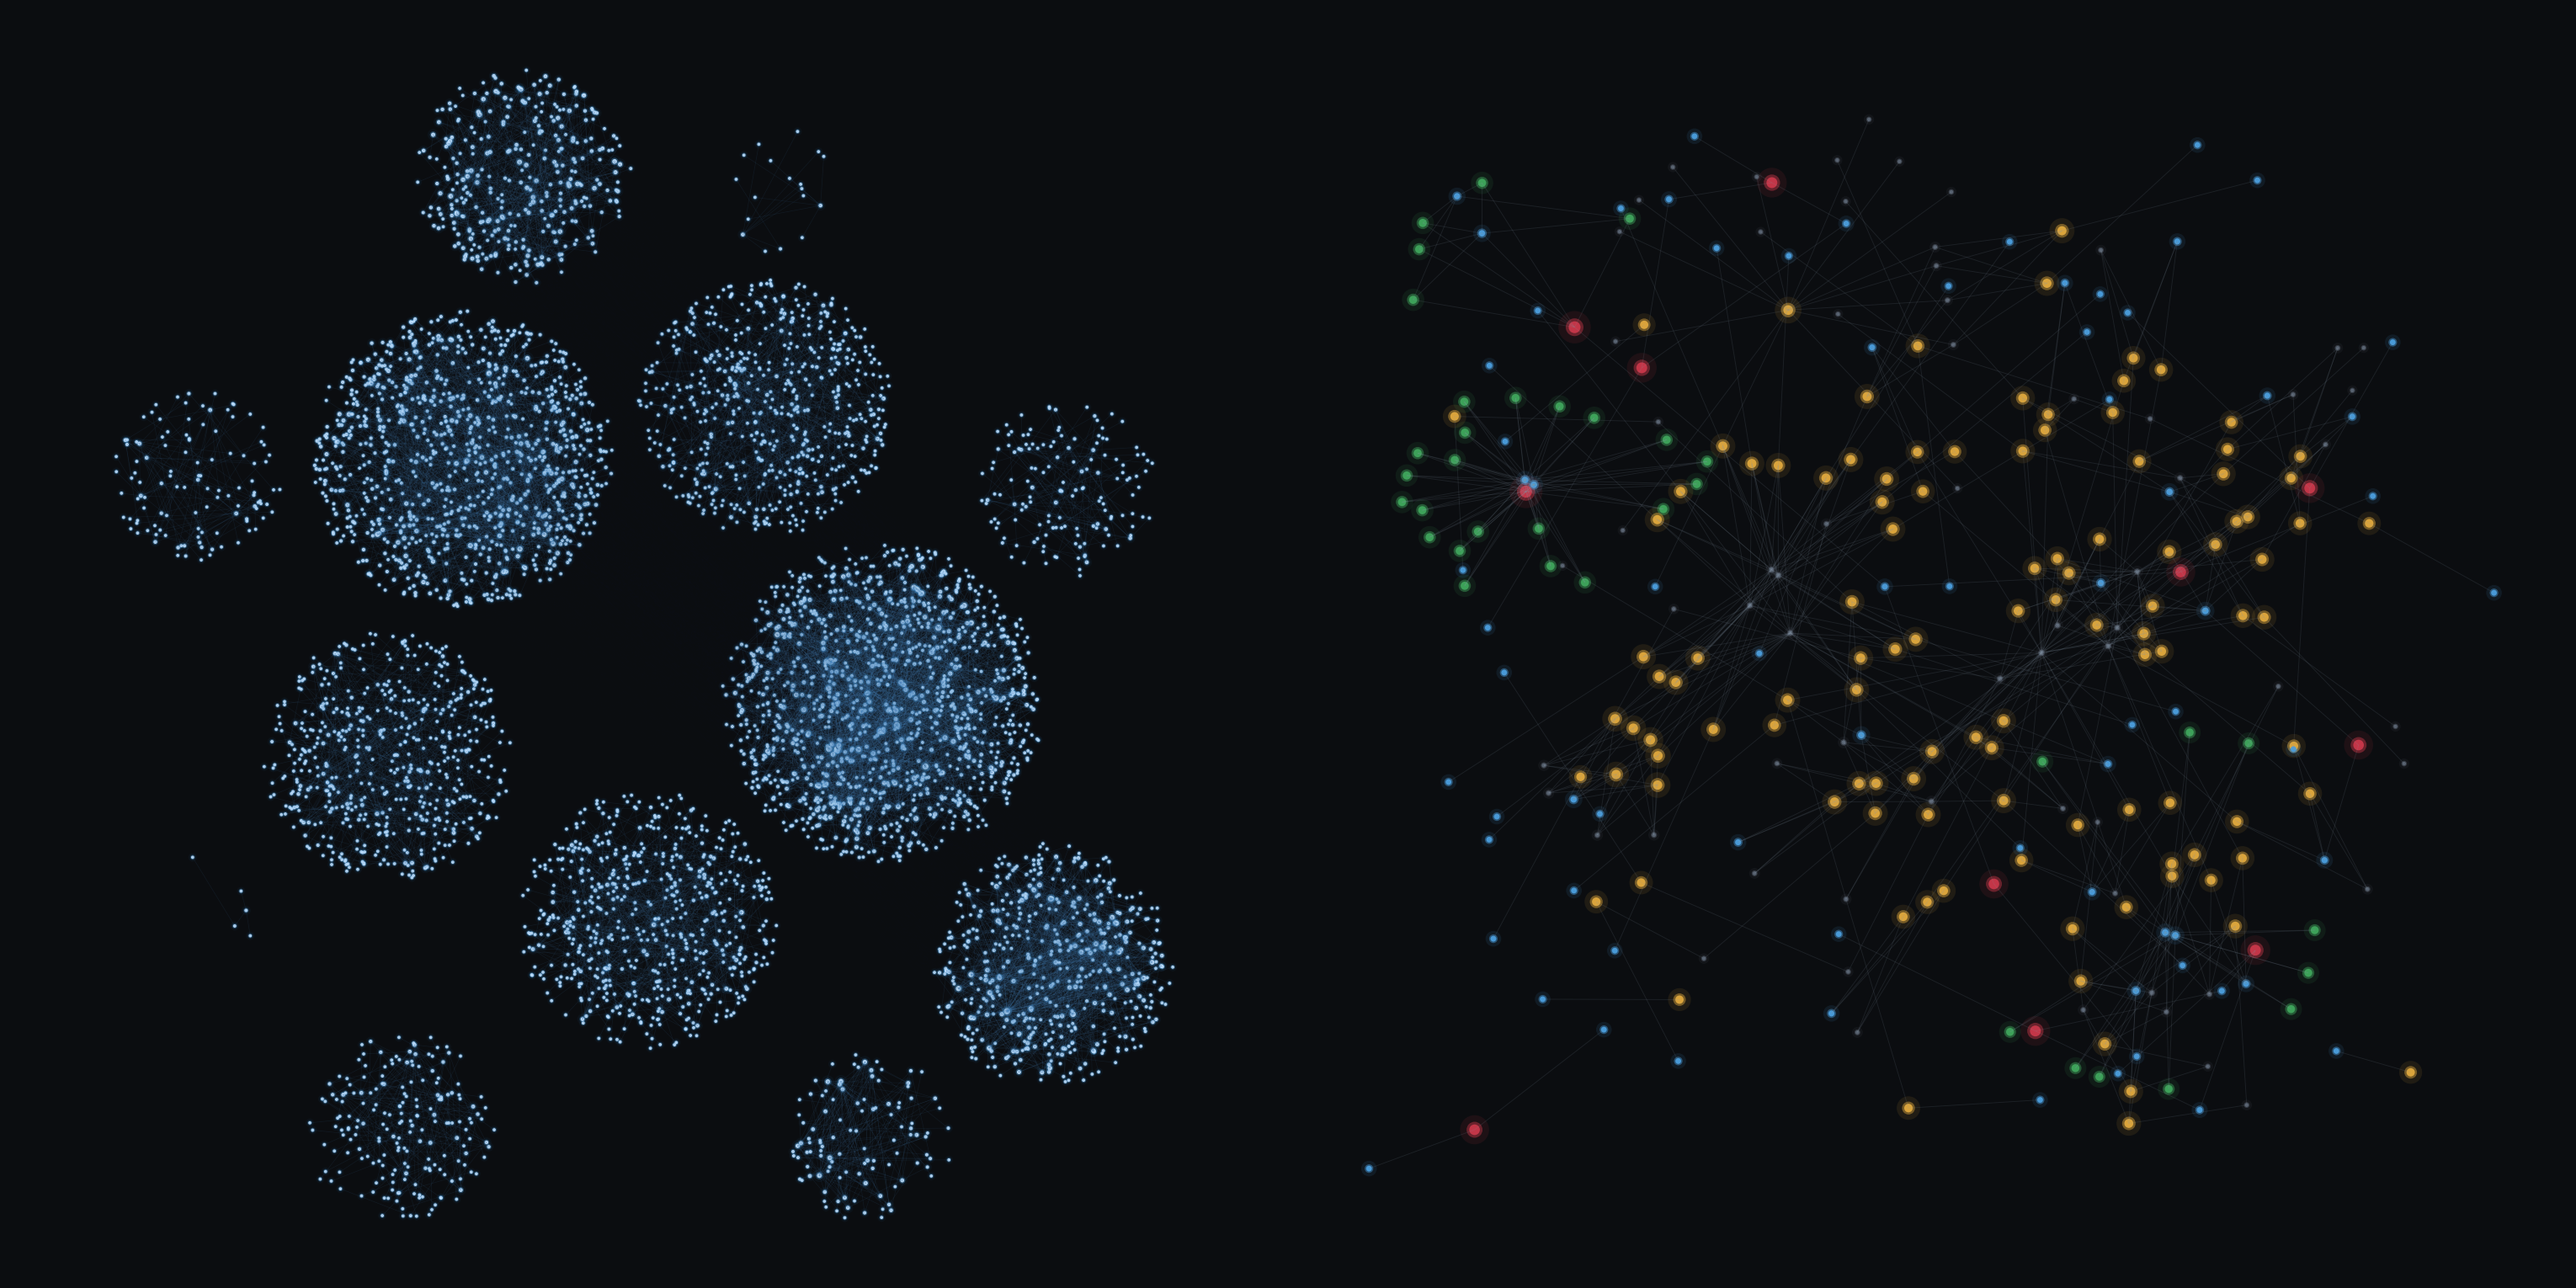
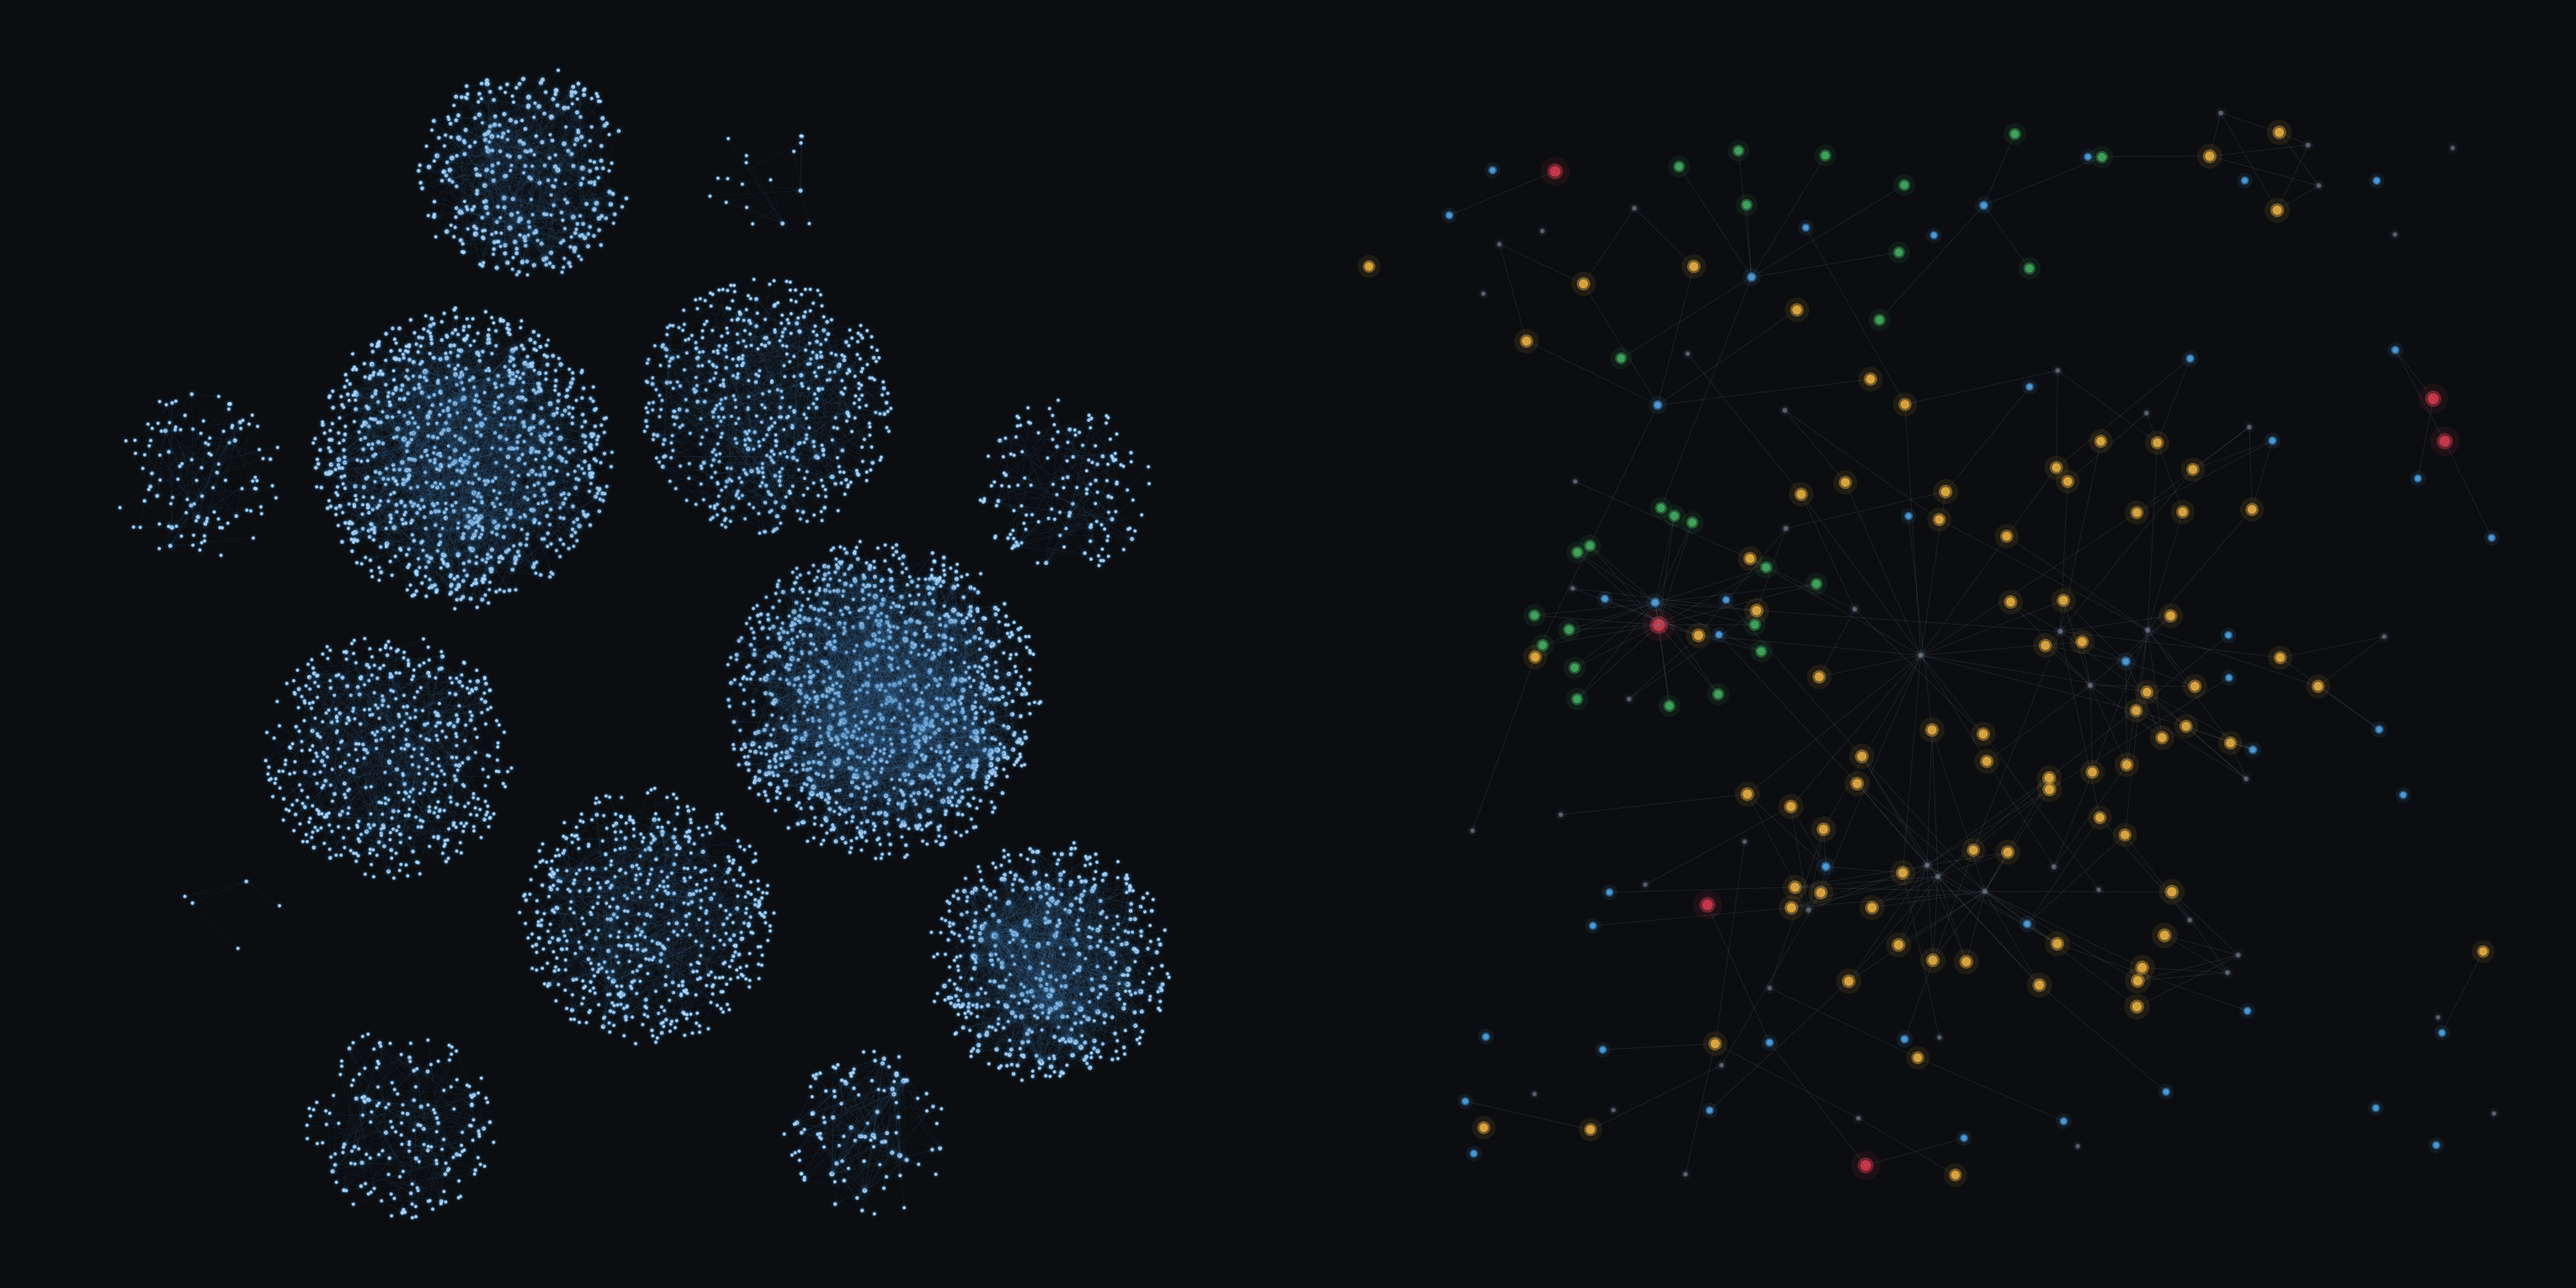
Egress tightening after adversarial disclosure audit: bucket invertible statistics, generalize data fingerprint, decimate+jitter graph renders, publication-cadence policy

diff --git a/README.md b/README.md
@@ -8,7 +8,7 @@ kept private.
 
 ## Solt — a falsification-first research program
 
-Solt is a research operating system for CME index futures (NQ / ES / YM). Its design premise
+Solt is a research operating system for CME equity index futures. Its design premise
 is that most edges aren't real, so the system is built to kill ideas quickly and honestly —
 and to make the surviving ones earn every step.
 
@@ -17,8 +17,8 @@ and to make the surviving ones earn every step.
 1. **Recall** — has this idea, or a close relative, already died here? An append-only research
    memory answers before any new work is spent.
 2. **Design review** — structural checks before anything runs: outcome-variance budgeting
-   against the minimum detectable effect, payoff-shape analysis (what the trade's bracket
-   guarantees by construction), and explicit null semantics — writing down what the null
+   against the minimum detectable effect, payoff-shape analysis (what the trade's exit
+   structure guarantees by construction), and explicit null semantics — writing down what the null
    destroys and what it preserves, so the test can't confirm a foregone conclusion.
 3. **Blind power pre-check** — feasibility and minimum detectable effect measured without ever
    looking at the candidate's sign or magnitude. Underpowered tests don't run; "null" and
@@ -43,10 +43,10 @@ and to make the surviving ones earn every step.
 |---|---|
 | Pre-registered, blinded research cycles | 14 |
 | Rigorous null results banked (and kept) | most of them |
-| Effects surviving replication + forward confirmation | 1 — 125 forward trades, sign-test p = 0.01, ~90% effect retention in replication |
+| Effects surviving replication + forward confirmation | 1 — passed pre-registered replication on untouched data, then forward out-of-sample confirmation |
 | Automated tests behind the platform | 650+ (lint + type gates on every commit) |
 | Design errors caught by adversarial review *before* measurement | 7 |
-| Historical data processed | 4M+ one-minute bars across three symbols and five years |
+| Historical data processed | millions of intraday bars across the symbol universe, spanning multiple regimes |
 | Total research data spend | under $30 |
 | Live dollars risked | $0 — everything is paper-gated |
 
@@ -65,21 +65,21 @@ the brighter cores are its most-connected symbols.
 cells in grey — linked by tested-by / uses / provenance edges. Every study deposits here, nulls
 included; this graph is why the trial count stays honest.
 
-The topology is real. The labels are deliberately absent — the structure is public, the contents
-are not.
+The renderings are decimated and jittered — structure representative, node counts deliberately
+not literal, labels absent. The shape is public; the contents are not.
 
 ### The statistics under the hood
 
 Combinatorially purged cross-validation · deflated Sharpe ratio at the honest trial count ·
 Benjamini–Hochberg FDR across every pre-declared family · permutation and surrogate nulls that
-traverse the full pipeline (raw bars → filters → encoding → statistic) · empirically calibrated
+traverse the full pipeline (raw data → transformations → statistic) · empirically calibrated
 rejection thresholds with Clopper–Pearson bounds · deterministic, byte-identical
 serial-vs-parallel Monte-Carlo calibration campaigns · adversarial multi-lens red-team review
 of every design before it may spend data.
 
 ### What you won't find here
 
-Signals, parameters, hypotheses, level definitions, or anything that would let a reader
+Signals, parameters, hypotheses, or anything that would let a reader
 reconstruct the live research directions. The process is public; the findings are the
 inventory.
 
@@ -87,7 +87,8 @@ inventory.
 
 Sanitized write-ups of *closed* research threads — the methodology lessons, the null designs
 that failed interestingly, the statistical traps that got caught — published once a thread is
-fully resolved and safely behind the program.
+fully resolved and safely behind the program — batched on a slow calendar, well after closure,
+with counts bucketed, so publication timing reveals nothing about live work.
 
 ---
 
